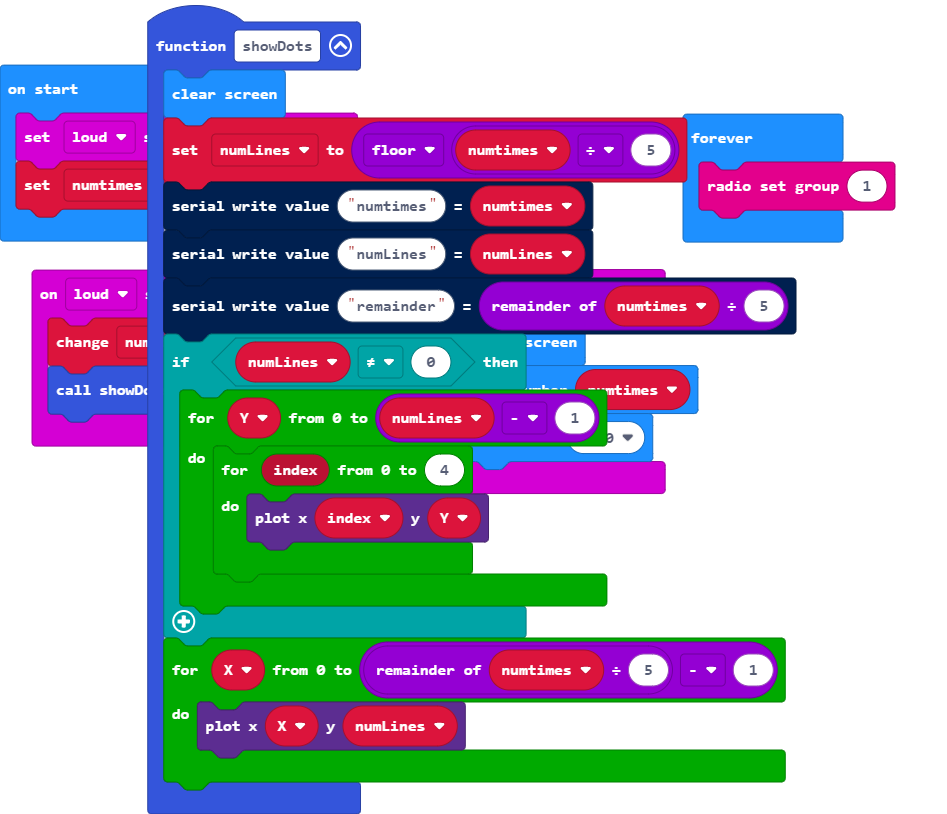
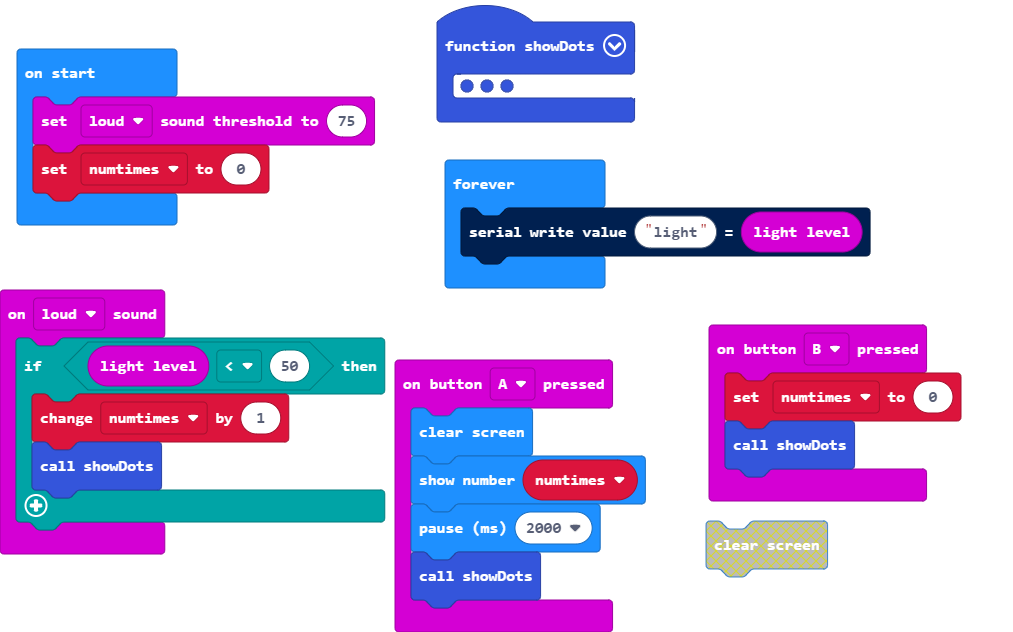
added button B to clear the number of times

diff --git a/main.ts b/main.ts
@@ -2,9 +2,16 @@ input.onButtonPressed(Button.A, function () {
     basic.clearScreen()
     basic.showNumber(numtimes)
     basic.pause(2000)
+    showDots()
 })
 input.onSound(DetectedSound.Loud, function () {
-    numtimes += 1
+    if (input.lightLevel() < 50) {
+        numtimes += 1
+        showDots()
+    }
+})
+input.onButtonPressed(Button.B, function () {
+    numtimes = 0
     showDots()
 })
 function showDots () {
@@ -26,8 +33,8 @@ function showDots () {
 }
 let numLines = 0
 let numtimes = 0
-input.setSoundThreshold(SoundThreshold.Loud, 50)
+input.setSoundThreshold(SoundThreshold.Loud, 75)
 numtimes = 0
 basic.forever(function () {
-    radio.setGroup(1)
+    serial.writeValue("light", input.lightLevel())
 })
